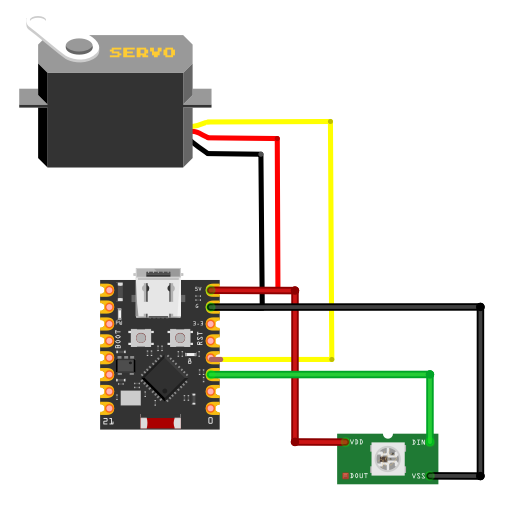
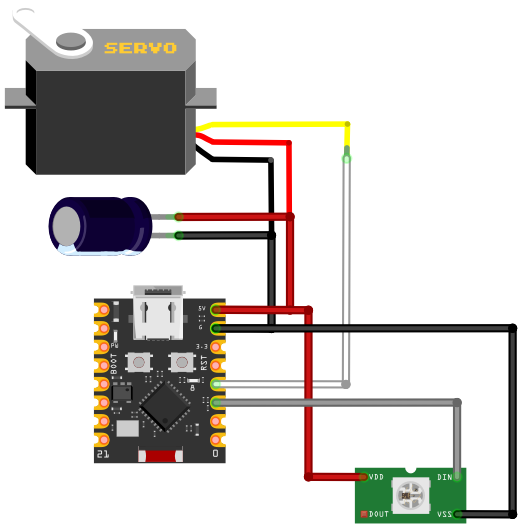
Update images and documentation in calibration README

Changed region(s): [[0.0, 0.0, 0.9884, 0.998]]

diff --git a/README.md b/README.md
@@ -3,7 +3,7 @@
 Dette repository indeholder **den aktive MQTT-baserede firmware** til styring af motoriserede spjæld (gates) i spånsugssystemet i **FabLab Spinderihallerne (Vejle)**.
 
 > 🔧 **Kalibrering**
-> Kalibreringskode (servo + WS2812 uden MQTT) ligger i mappen **`Calibration/`** og har sin egen `README.md`.
+> Kalibreringskode (servo + WS2812 uden MQTT) ligger i mappen **`src/Calibration/`** og har sin egen `README.md`.
 
 ---
 
@@ -34,11 +34,11 @@ Raspberry Pi:
 
 ```
 /
-├── src/                # Aktiv ESP32 MQTT-firmware
-├── Calibration/        # Kalibreringskode (egen README)
+├── src/                # MQTT-firmware
+├── src/Calibration/    # Kalibreringskode (egen README)
 ├── images/             # Diagrammer og fotos
 ├── node-red/           # Node-RED flow (egen README)
-├── platformio.ini
+├── platformio.ini      # Indeholder begge environments (MQTT og Calibration)
 └── README.md           # (denne fil)
 ```
 
@@ -50,6 +50,7 @@ Raspberry Pi:
 * Servo (MG996R / MG966R eller tilsvarende)
 * 1× WS2812B (NeoPixel)
 * Strømsensor m. relæ udgang
+* Kondensator til at klare peeks fra Servo motoren
 
 ![Test setup – servo og WS2812B](/images/SetupConnections.png)
 

diff --git a/src/Calibration/README.md b/src/Calibration/README.md
@@ -71,34 +71,6 @@ Værdierne gemmes automatisk når de ændres via webinterfacet, og indlæses aut
 
 ---
 
-## Sådan bruges kalibreringskoden
-
-### 1. Flash firmwaren
-Brug **VS Code + PlatformIO** til at bygge og uploade projektet.
-
-### 2. Åbn Serial Monitor
-- Baud rate: **115200**
-- PlatformIO: `Ctrl + Alt + S`
-
-### 3. Tast kommandoer
-Skriv ét tegn ad gangen og tryk Enter:
-
-| Tast | Funktion |
-|----|---------|
-| `o` | Gå til OPEN-position |
-| `c` | Gå til CLOSE-position |
-| `+` | Øg OPEN-vinkel |
-| `-` | Sænk OPEN-vinkel |
-| `,` | Øg CLOSE-vinkel |
-| `.` | Sænk CLOSE-vinkel |
-| `p` | Print aktuelle værdier |
-
-Kalibrér indtil:
-- Spjældet lukker helt tæt **uden at servoen presser**
-- Spjældet åbner helt **uden at ramme mekanisk stop**
-
----
-
 ## Vigtige noter
 
 - Brug altid **fælles GND**
